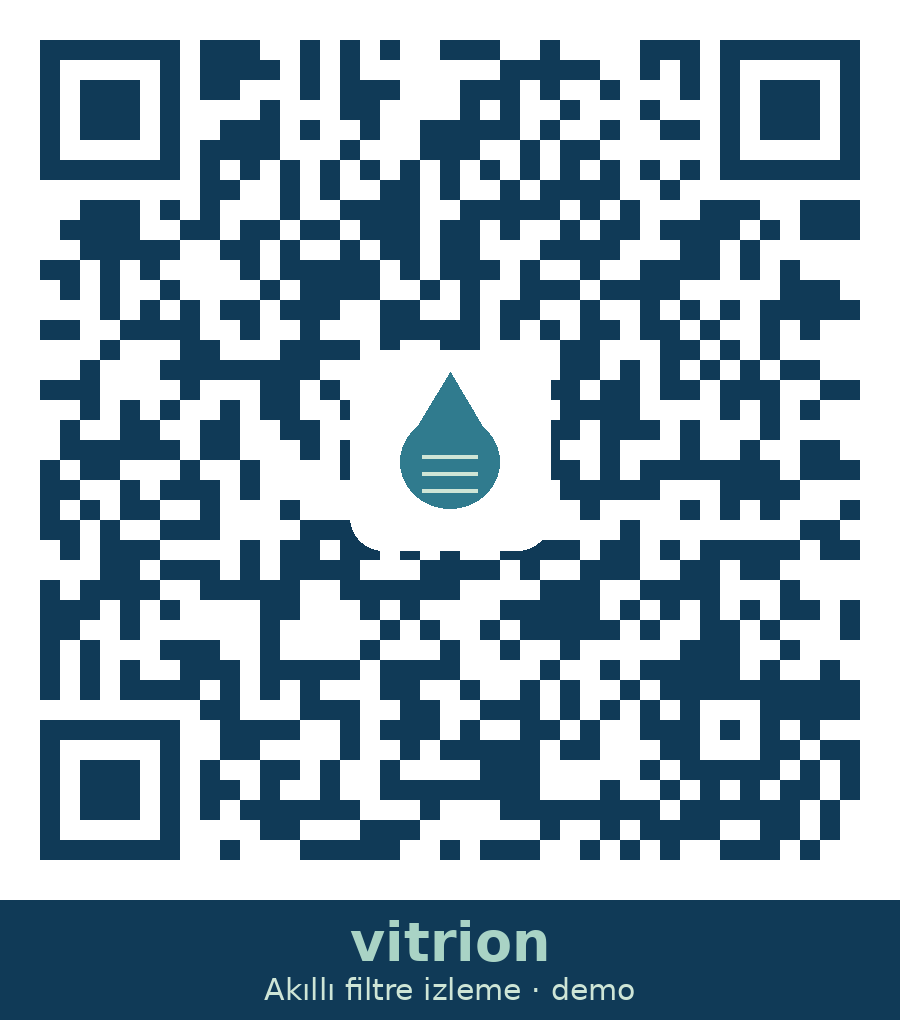
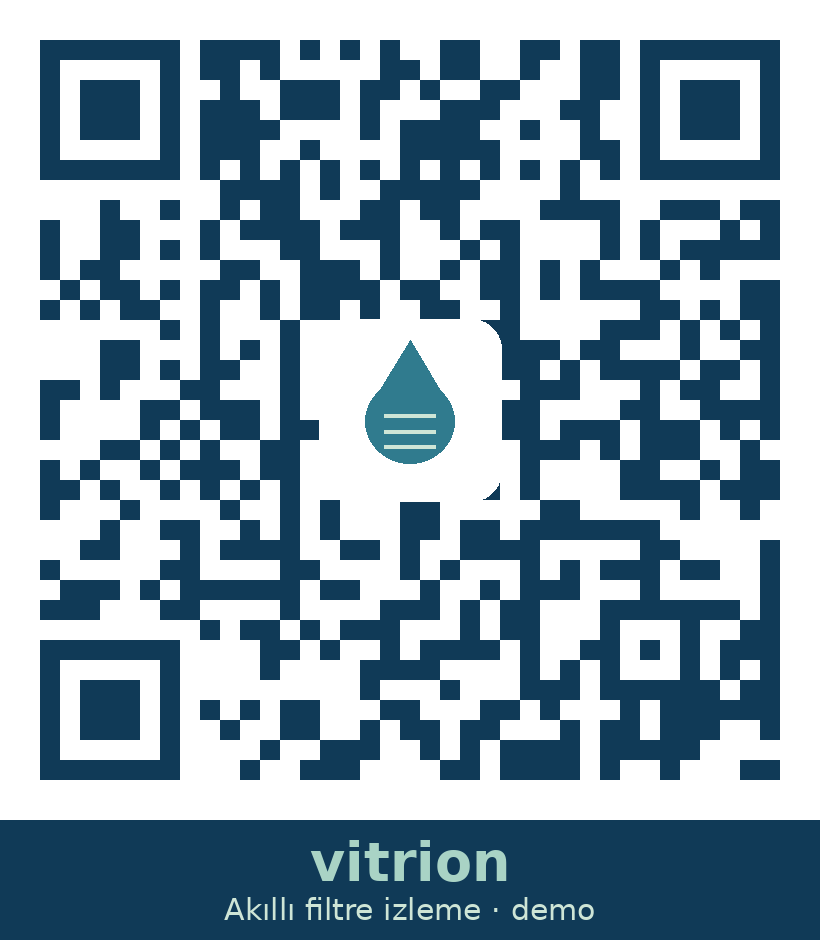
Yayın adresi vitrion olarak güncellendi, QR yenilendi
Claude-Session: https://claude.ai/code/session_019zBy2z5RwEWSrywfqiRukp

diff --git a/CLAUDE.md b/CLAUDE.md
@@ -89,7 +89,7 @@ Demo filtreleri: F-101/102 cam, F-103 referans kum (L1 proses suyu); F-201/202 (
 F-301 (L3 kazan besleme); F-401 (TU-out sensör arızası örneği)/402 (L4 atıksu geri kazanım).
 
 ## Yayın linkleri
-- GitHub Pages: https://esrainan120-ctrl.github.io/ideathon-ai-app/ (Settings → Pages → main, /docs)
+- GitHub Pages: https://esrainan120-ctrl.github.io/vitrion/ (Settings → Pages → main, /docs). Depo adı `ideathon-ai-app` → `vitrion` olarak değiştirildi; eski Pages adresi yönlenmez.
 - claude.ai artifact (sahibine özel, Share ile açılır): https://claude.ai/artifact/XxcZ6TpgyNu9WrWv3e3Xak
 
 ## Bulut ortamı
